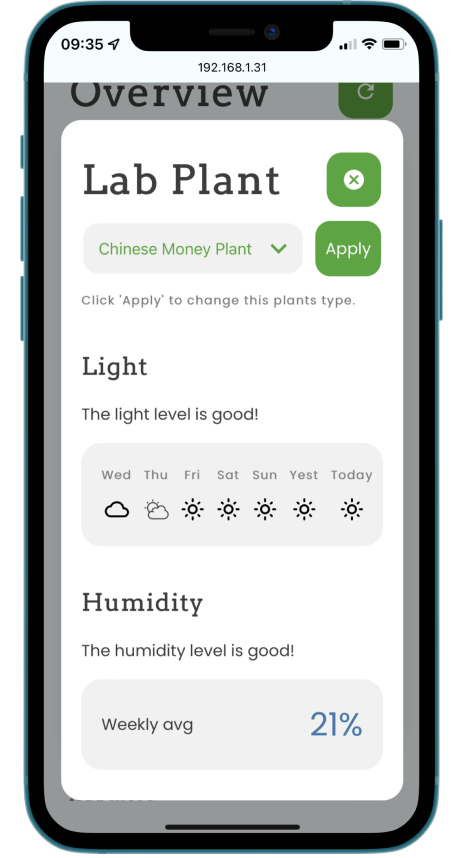
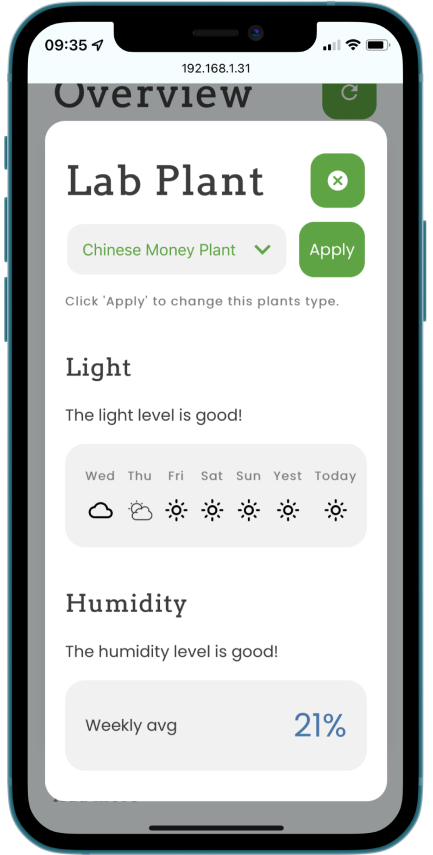
Added page for labplant. Fixed color bug.

diff --git a/src/components/pages/LabPlant.js b/src/components/pages/LabPlant.js
@@ -1,0 +1,55 @@
+import React from 'react';
+import ProjectDetails from '../ProjectDetails';
+import styles from '../ProjectDetails.module.css';
+
+function LabPlant() {
+  return (
+    <>
+      <ProjectDetails 
+          title ="LabPlant"
+          dateText = 'Våren 2022'
+          fieldText = 'Design & implementation'
+          header_images = {['pictures/LabPlant/Start.png','pictures/LabPlant/PlantInfo.png','pictures/LabPlant/PlantInfo2.png']}
+          header_color = '4'
+      >
+        <div>
+          <p>
+            Ett system för övervakning och automatiskt vattning av krukväxter! Systemet består av en Raspberry Pi 4, en ESP-32 samt några sensorer.
+          </p>
+        </div>
+        <div>
+          <h3>Vad var uppgiften?</h3>
+          <p>
+            Detta system skapades i kursen Design och Tjänsteutveckling för IoT. Kursen berörde Internet of Things och gick ut på att lära sig hantera 
+            mikrokontrollers och sensorer.  Detta var slutprojektet och det var fritt utformat, ett system som ska hjälpa människor i deras vardag med vardagliga 
+            saker. Det skulle ingå valfria sensorer, men minst två olika.  
+          </p>
+        </div>
+        <div>
+          <h3>Vår lösning</h3>
+          <p>
+            Vår lösning var labplant. Raspberry Pi användes som en hub för att ta emot data från en mikrokontroller: ESP32. ESP32:an var kopplad till en 
+            temperatur och fuktighets-sensor, en ljussensor, en jordfuktighetssensor samt en vattenpump. Ett gränssnitt skapades där användaren kunde välja vilken 
+            slags krukväxt sensorerna hade kopplats på. Beroende på krukväxt och sensordatan ändrades sedan ikonernas färg efter hur växten mår när det kommer till 
+            temperatur, fuktighet, ljus och jordfuktighet. Växten vattnades också om jordfuktigheten var för låg för många dagar i sträck. Men som användare 
+            kunde man också vattna växten genom systemet.  
+          </p>
+        </div>
+        <div>
+          <h3>Utvecklingsprocessen</h3>
+          <p>
+            För att utveckla på ESP32 användes Mongoose OS och koden skrevs i JavaScript. 
+            På Raspberry Pi användes Node.js för att sätta upp den som en hub och skapa gränssnittet. 
+            Det roliga med detta projekt var att vi även fick jobba fysiskt och faktiskt koppla upp sensorer mot vår ESP32. 
+          </p>
+          <div className={styles.icons}>
+            <img src='icons/MongooseOS.svg' alt='Mongoose OS'/>
+            <img src='icons/JavaScript.svg' alt='JavaScript'/>
+            <img src='icons/NodeJS.svg' alt='NodeJS'/>
+          </div>
+        </div>
+      </ProjectDetails>
+  </>
+  )
+}
+export default LabPlant

diff --git a/src/components/sections/projects/ProjectSection.js b/src/components/sections/projects/ProjectSection.js
@@ -9,6 +9,7 @@ function ProjectSection() {
         <div className={'mainContainer ' + styles.projectSection} id="projectSection">
             <h2 className='sectionHeading'>Projekt</h2>
         </div>
+        <div className={styles.test}>
         <div className={styles.projectItem}>
             <ProjectItem
                 headline ="GreetUp"
@@ -53,7 +54,7 @@ function ProjectSection() {
                 picsRight = {false}
                 /*If picture nr 2, srcImg_2, is horisontal or vertically aligned */
                 infoText = 'Ett system för övervakning och automatiskt vattning av krukväxter!'
-                link = '/'
+                link = '/PlantInfo'
             />
         </div>
 
@@ -65,6 +66,7 @@ function ProjectSection() {
                 infoText = 'Ett tärningspel som går ut på att på ett smart sätt låsa tärningar och samla poäng.'
                 link = '/Thirty'
             />
+        </div>
         </div>
 
     </>

diff --git a/src/App.js b/src/App.js
@@ -7,6 +7,7 @@ import Occento from './components/pages/Occento';
 import GoToTop from './components/GoToTop';
 import Thirty from './components/pages/Thirty';
 import GreetUp from './components/pages/GreetUp';
+import LabPlant from './components/pages/LabPlant';
 
 
 function App() {
@@ -20,6 +21,7 @@ function App() {
         <Route path ='/GreetUp' element= {<GreetUp/>}/>
         <Route path ='/Occento' element= {<Occento/>}/>
         <Route path ='/Thirty' element= {<Thirty/>}/>
+        <Route path = '/PlantInfo' element ={<LabPlant/>}/>
       </Routes>
     </Router>
     </>

diff --git a/src/components/sections/projects/ProjectSection.module.css b/src/components/sections/projects/ProjectSection.module.css
@@ -8,17 +8,18 @@
     padding-bottom: var(--padding-top-and-bottom);
 }
 
-.projectItem:nth-child(1n){
-    background-color:#FDE7EF;
+.projectItem:nth-of-type(1n){
+   background-color:#FDE7EF
 }
-.projectItem:nth-child(2n){
+.projectItem:nth-of-type(2n){
     background-color:#E0FAF6;
+
 }
-.projectItem:nth-child(3n){
-    background-color:#D8FCCF;
+.projectItem:nth-of-type(3n){
+   background-color:#D8FCCF;
 }
-.projectItem:nth-child(4n + 1){
-    background-color:#F1D6ED;
+.projectItem:nth-of-type(4n){
+   background-color:#F1D6ED;
 }
 
 @media screen and (max-width: 600px) {

diff --git a/src/components/ProjectDetails.module.css b/src/components/ProjectDetails.module.css
@@ -7,7 +7,7 @@
     background: linear-gradient(180deg, rgba(205, 235, 230, 0.00) 0%, rgba(205, 235, 230, 0.66) 43.62%, #CDEBE6 78.44%);
 }
 #3{
-    background: linear-gradient(180deg, rgba(216, 252, 207, 0.00) 0%, rgba(216, 252, 207, 0.66) 43.62%, #D8FCCF 78.44%);
+    background: linear-gradient(180deg, rgba(216, 252, 207, 0.00) 0%, rgba(216, 252, 207, 0.66) 43.62%, #3be411 78.44%);
 }
 #4{
     background: linear-gradient(180deg, rgba(241, 214, 237, 0.00) 0%, rgba(241, 214, 237, 0.66) 43.62%, #F1D6ED 78.44%);
